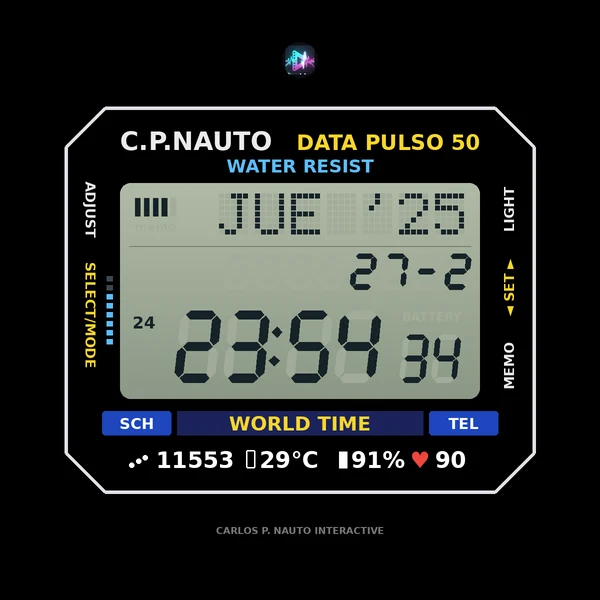
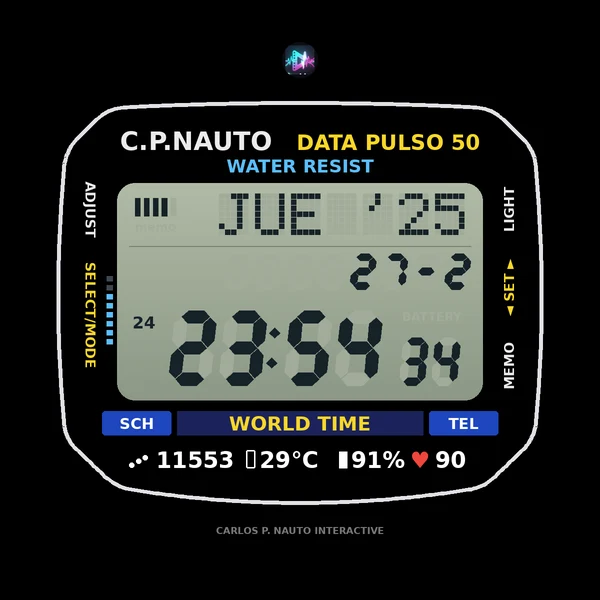
Retro LCD: marco con lados curvos y dígitos más gruesos
El marco sigue la forma del bisel (arriba arqueado, costados abombados, abajo
curvo, esquinas suavizadas) y los segmentos de los números son más anchos y
rellenos, como en el diseño original.

Claude-Session: https://claude.ai/code/session_01RTdv2VrACuR4VFWJLA57hx

diff --git a/android/esferas-de-reloj/retro/src/main/java/cl/carlospnauto/esfera/FaceService.kt b/android/esferas-de-reloj/retro/src/main/java/cl/carlospnauto/esfera/FaceService.kt
@@ -5,6 +5,7 @@ import android.content.Intent
 import android.content.IntentFilter
 import android.graphics.Canvas
 import android.graphics.Color
+import android.graphics.CornerPathEffect
 import android.graphics.LinearGradient
 import android.graphics.Paint
 import android.graphics.Path
@@ -152,6 +153,7 @@ class RetroRenderer(
     var lastBounds = Rect()
         private set
 
+    private var corners: CornerPathEffect? = null
     private var tempAt = 0L
     private var batteryTemp = Float.NaN
 
@@ -182,16 +184,24 @@ class RetroRenderer(
         return batteryTemp
     }
 
-    private fun octagon(l: Float, t: Float, r: Float, b: Float, c: Float) {
+    /**
+     * Marco con lados curvos (como el bisel de los relojes digitales retro): arriba apenas arqueado,
+     * costados abombados, abajo siguiendo la curva de la esfera y esquinas en diagonal suavizadas.
+     */
+    private fun framePath(cx: Float, cy: Float, r: Float) {
+        val w = r * 0.78f
+        val top = cy - r * 0.64f
+        val bot = cy + r * 0.66f
+        val c = r * 0.14f
         path.reset()
-        path.moveTo(l + c, t)
-        path.lineTo(r - c, t)
-        path.lineTo(r, t + c)
-        path.lineTo(r, b - c)
-        path.lineTo(r - c, b)
-        path.lineTo(l + c, b)
-        path.lineTo(l, b - c)
-        path.lineTo(l, t + c)
+        path.moveTo(cx - w + c, top)
+        path.quadTo(cx, top - r * 0.035f, cx + w - c, top)
+        path.lineTo(cx + w, top + c)
+        path.quadTo(cx + w + r * 0.05f, cy, cx + w, bot - c * 1.4f)
+        path.lineTo(cx + w - c * 1.2f, bot - c * 0.25f)
+        path.quadTo(cx, bot + r * 0.07f, cx - w + c * 1.2f, bot - c * 0.25f)
+        path.lineTo(cx - w, bot - c * 1.4f)
+        path.quadTo(cx - w - r * 0.05f, cy, cx - w, top + c)
         path.close()
     }
 
@@ -220,15 +230,13 @@ class RetroRenderer(
 
         // Marco octogonal
         val frame = Choices.value(context, FRAME)
-        val fl = cx - r * 0.78f
-        val ft = cy - r * 0.64f
-        val fr = cx + r * 0.78f
-        val fb = cy + r * 0.64f
         if (Color.alpha(frame) > 0) {
-            octagon(fl, ft, fr, fb, r * 0.13f)
+            framePath(cx, cy, r)
             stroke.color = if (ambient) Color.DKGRAY else frame
-            stroke.strokeWidth = r * 0.012f
+            stroke.strokeWidth = r * 0.014f
+            stroke.pathEffect = corners ?: CornerPathEffect(r * 0.06f).also { corners = it }
             canvas.drawPath(path, stroke)
+            stroke.pathEffect = null
         }
 
         // Acceso de arriba con su ícono (PulsoMedia por defecto)
@@ -262,7 +270,7 @@ class RetroRenderer(
 
         // Pantalla de cristal líquido
         val mode = if (ambient) 1 else Choices.value(context, SCREEN)
-        val lcd = RectF(cx - r * 0.60f, cy - r * 0.39f, cx + r * 0.60f, cy + r * 0.33f)
+        val lcd = RectF(cx - r * 0.61f, cy - r * 0.39f, cx + r * 0.61f, cy + r * 0.335f)
         val on: Int
         val ghost: Int
         when (mode) {
@@ -283,7 +291,7 @@ class RetroRenderer(
                 ghost = if (ambient) 0 else Color.argb(26, Color.red(on), Color.green(on), Color.blue(on))
             }
         }
-        canvas.drawRoundRect(lcd, r * 0.035f, r * 0.035f, fill)
+        canvas.drawRoundRect(lcd, r * 0.06f, r * 0.06f, fill)
         fill.shader = null
 
         // Íconos de la pantalla: nivel (barritas), «memo» y campana apagados
@@ -316,10 +324,10 @@ class RetroRenderer(
         // Fila 3: hora grande, segundos chicos e indicador P / 24
         val is24 = DateFormat.is24HourFormat(context)
         val h = if (is24) "%02d".format(t.hour) else (if (t.hour % 12 == 0) 12 else t.hour % 12).toString().padStart(2, ' ')
-        val dw = r * 0.135f
-        val dh = r * 0.24f
+        val dw = r * 0.14f
+        val dh = r * 0.25f
         val y3 = cy + r * 0.035f
-        val x0 = cx - r * 0.42f
+        val x0 = cx - r * 0.44f
         Lcd.digit(canvas, h[0], x0, y3, dw, dh, on, ghost)
         Lcd.digit(canvas, h[1], x0 + dw * 1.2f, y3, dw, dh, on, ghost)
         Lcd.colon(canvas, x0 + dw * 2.42f, y3, dh, r * 0.018f, on)

diff --git a/android/esferas-de-reloj/retro/src/main/java/cl/carlospnauto/esfera/Lcd.kt b/android/esferas-de-reloj/retro/src/main/java/cl/carlospnauto/esfera/Lcd.kt
@@ -38,7 +38,7 @@ object Lcd {
 
     private fun segments(mask: Int, w: Float, h: Float, t: Float) {
         path.reset()
-        val g = t * 0.14f
+        val g = t * 0.06f
         val l = t / 2
         if (mask and 1 != 0) hSeg(l + g, w - l - g, l, t)
         if (mask and 64 != 0) hSeg(l + g, w - l - g, h / 2, t)
@@ -51,7 +51,7 @@ object Lcd {
 
     /** Un dígito inclinado (x, y = arriba a la izquierda). ghost: color de los segmentos apagados (0 = sin) */
     fun digit(canvas: Canvas, ch: Char, x: Float, y: Float, w: Float, h: Float, on: Int, ghost: Int) {
-        val t = w * 0.21f
+        val t = w * 0.30f
         canvas.save()
         canvas.translate(x, y + h)
         canvas.skew(-0.1f, 0f)
@@ -132,7 +132,7 @@ object Lcd {
     /** Texto en puntos (x, y = arriba a la izquierda; p = paso entre puntos). Sin tildes. */
     fun dots(canvas: Canvas, s: String, x: Float, y: Float, p: Float, on: Int, ghost: Int) {
         val clean = Normalizer.normalize(s.uppercase(), Normalizer.Form.NFD).replace(Regex("\\p{M}"), "")
-        val d = p * 0.82f
+        val d = p * 0.9f
         for ((i, ch) in clean.withIndex()) {
             val rows = FONT[ch]
             val ox = x + i * p * 6
